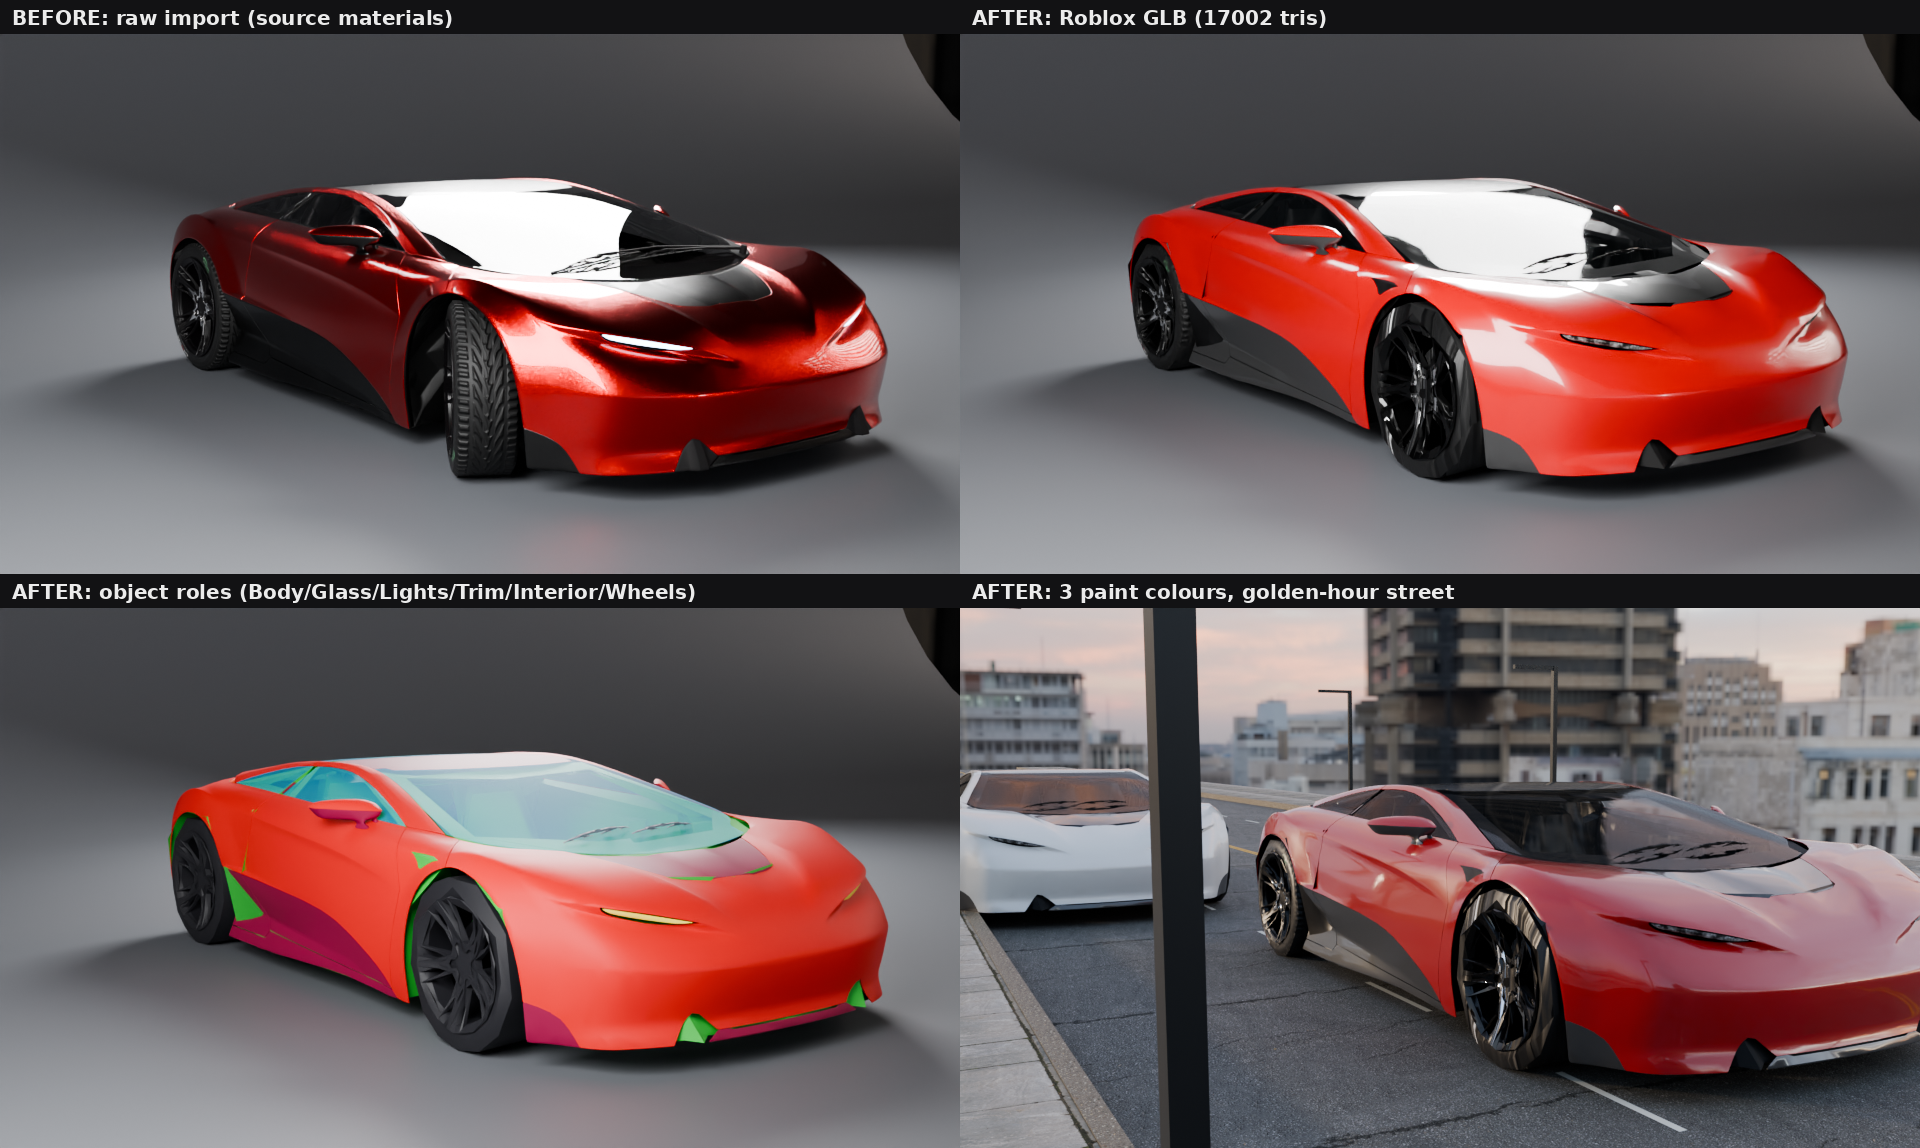
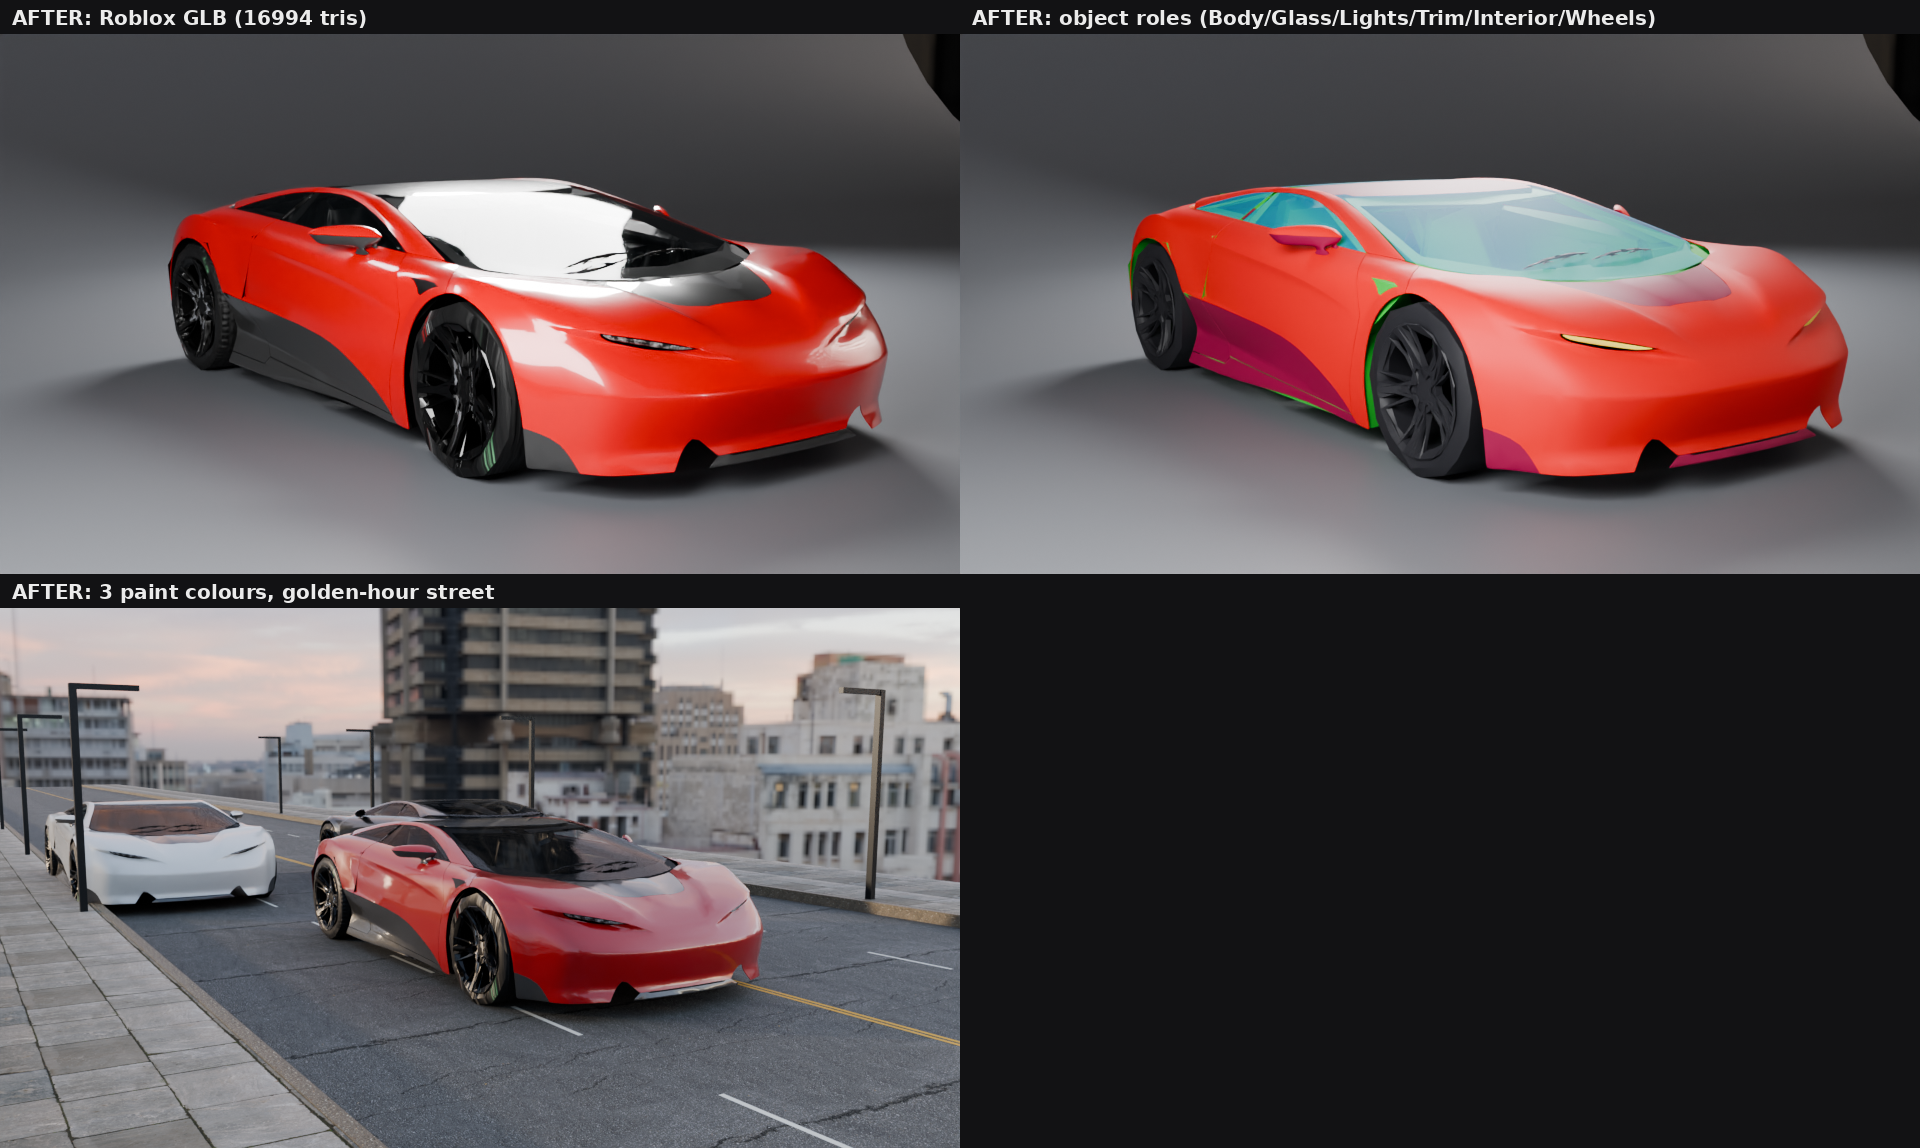
WIP snapshot (auto): workflows in progress
Claude-Session: https://claude.ai/code/session_013hTzzkEbxNRPuu2R1Xna4H

diff --git a/tools/blender/buildkit/render_kit.py b/tools/blender/buildkit/render_kit.py
@@ -38,7 +38,7 @@ def north_lot_y(D):
 
 
 def avenue(x0, x1, night=False, lamps=60.0, palms=None, cars=True, seed=0, far_w=40.0, palm_kind="fan", side_w=SIDE_W,
-           no_cars=None, clear=None):
+           no_cars=None, clear=None, no_cars_n=None):
     """clear=(x, y, r): keep lamps/palms out of a radius around the camera."""
     ok = (lambda px, py: clear is None or math.hypot(px - clear[0], py - clear[1]) > clear[2])
     """East-west avenue centred on y=0 with sidewalks both sides (lots start at |y| = ROAD_W/2 + SIDE_W)."""
@@ -64,7 +64,11 @@ def avenue(x0, x1, night=False, lamps=60.0, palms=None, cars=True, seed=0, far_w
         k += 1
     if cars:
         nc = no_cars or (x0 - 1, x0 - 1)
-        S.parked_row(c, x0 + 10, x1 - 10, ROAD_W / 2 - 4.2, heading=180, seed=seed + 1, prob=0.55)
+        if no_cars_n:   # keep the kerb in front of the hero lot clear
+            S.parked_row(c, x0 + 10, no_cars_n[0], ROAD_W / 2 - 4.2, heading=180, seed=seed + 1, prob=0.55)
+            S.parked_row(c, no_cars_n[1], x1 - 10, ROAD_W / 2 - 4.2, heading=180, seed=seed + 3, prob=0.55)
+        else:
+            S.parked_row(c, x0 + 10, x1 - 10, ROAD_W / 2 - 4.2, heading=180, seed=seed + 1, prob=0.55)
         S.parked_row(c, max(x0 + 10, nc[1]), x1 - 10, -ROAD_W / 2 + 4.2, heading=0, seed=seed + 2, prob=0.55)
         # a few moving-lane cars for life
         for k in range(3):
@@ -169,10 +173,10 @@ def sc_single_lot(a, arch, seed, name, cam, target, lens=22, sun=-130.0, neighbo
                   cars_frac=0.6):
     S.reset(a.res)
     S.world("sky_late_afternoon", sun_az=sun)
-    avenue(-320, 320, lamps=64, palms=palms, seed=seed + 11, far_w=0, clear=(cam[0], cam[1], 26),
-           no_cars=(cam[0] - 40, cam[0] + 40))
     B = BK.build(arch, seed, **(kw or {}))
     W, D = B.footprint
+    avenue(-320, 320, lamps=64, palms=palms, seed=seed + 11, far_w=0, clear=(cam[0], cam[1], 55),
+           no_cars=(cam[0] - 40, cam[0] + 40), no_cars_n=(-W / 2 - 30, W / 2 + 10))
     y = north_lot_y(D)
     BK.instantiate(B, col(), loc=(0, y, 0), rot_z=0)
     lot_cars(B, 0, y, 0, frac=cars_frac * 0.7, seed=seed)
@@ -208,7 +212,7 @@ def sc_gas(a):
 
 
 def sc_diner(a):
-    return sc_single_lot(a, "diner", 1, "diner", (-78, -30, 6.5), (0, 96, 10), lens=34, neighbours=(("gas", 3),))
+    return sc_single_lot(a, "diner", 1, "diner", (-62, -28, 6.0), (2, 94, 10), lens=36, neighbours=(("gas", 3),))
 
 
 def sc_store(a):
